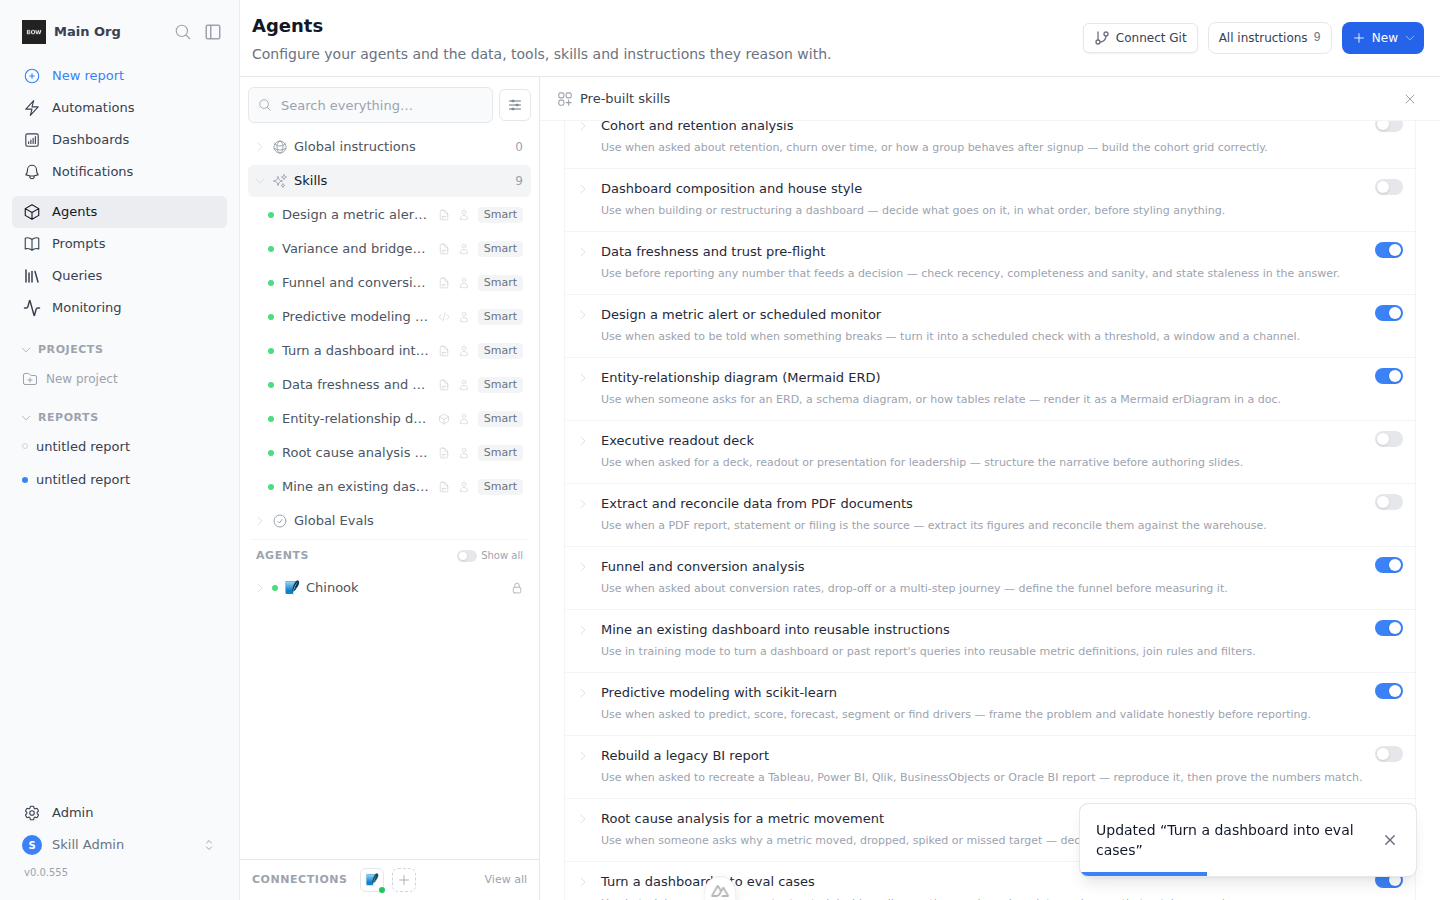
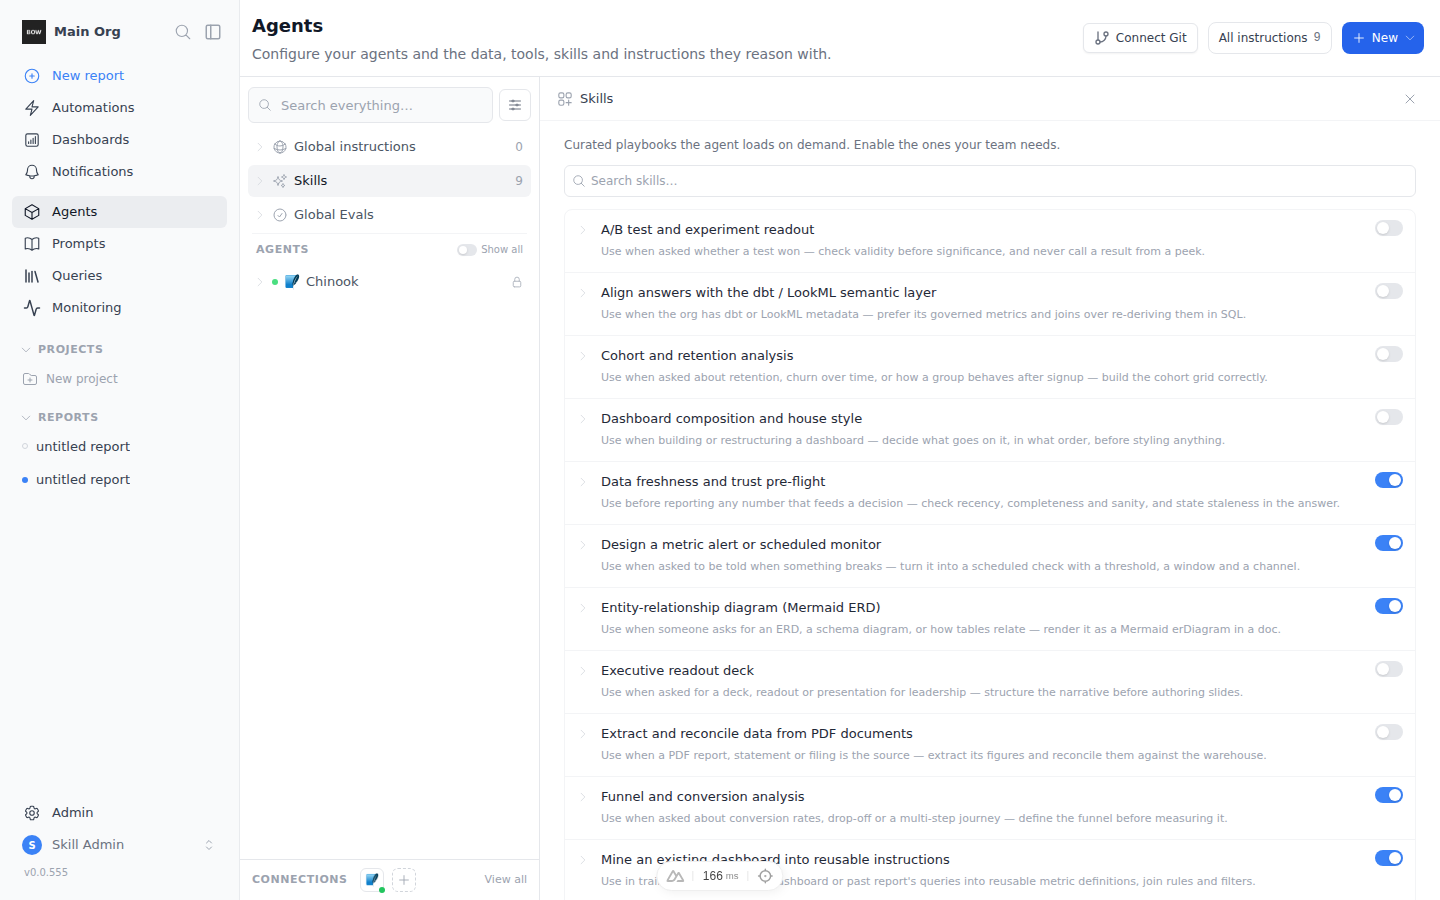
fix(skills): title the panel "Skills", route it at /agents/skills, restore its deep link
The panel was titled "Pre-built skills" and its URL read /agents/skill-catalog,
because the explorer builds the address from panelView.kind. It is the Skills
view — renaming the kind to 'skills' gives both the right heading (reusing the
existing agentsPage.skills string) and /agents/skills.

That URL was also write-only: syncUrl wrote it but restoreFromRoute had no
branch for it, so /agents/skills opened an empty right pane on reload and on
back/forward. It now restores the catalog, the same way /agents/global-evals
does.

Claude-Session: https://claude.ai/code/session_011LnxpYd7B5nojHHLF78AAB

diff --git a/frontend/components/KnowledgeExplorer.vue b/frontend/components/KnowledgeExplorer.vue
@@ -143,7 +143,7 @@
           </TreeGroup>
           <!-- Clicking the row opens the pre-built catalog (mirrors Tables /
                Tools); the chevron alone expands the org's enabled skills. -->
-          <TreeGroup :label="$t('agentsPage.skills')" icon="i-heroicons-sparkles" :count="skillCount" :active="panelView?.kind === 'skill-catalog'" data-testid="skills-group" :open="isOpen('skills')" @toggle="onSkillsRowClick">
+          <TreeGroup :label="$t('agentsPage.skills')" icon="i-heroicons-sparkles" :count="skillCount" :active="panelView?.kind === 'skills'" data-testid="skills-group" :open="isOpen('skills')" @toggle="onSkillsRowClick">
             <div v-if="groupLoading('skills')" class="flex items-center gap-2 h-8 text-[13px] text-gray-400 dark:text-gray-500" style="padding-inline-start:32px"><Spinner class="w-3.5 h-3.5" /><span>Loading…</span></div>
             <template v-else>
               <EmptyHint v-if="skillCount === 0" :text="$t('agentsPage.noSkills')" />
@@ -565,9 +565,9 @@
         <template v-else-if="panelView">
           <div class="h-11 shrink-0 px-4 flex items-center justify-between border-b border-gray-100 dark:border-gray-800">
             <div class="flex items-center gap-1.5 min-w-0">
-              <template v-if="panelView.kind === 'skill-catalog'">
+              <template v-if="panelView.kind === 'skills'">
                 <UIcon name="i-heroicons-squares-plus" class="w-[18px] h-[18px] shrink-0 text-gray-400 dark:text-gray-500" />
-                <span class="text-[13px] font-medium text-gray-700 dark:text-gray-300 truncate">{{ $t('skillCatalog.title') }}</span>
+                <span class="text-[13px] font-medium text-gray-700 dark:text-gray-300 truncate">{{ $t('agentsPage.skills') }}</span>
               </template>
               <template v-else-if="panelView.kind === 'global-evals'">
                 <UIcon name="i-heroicons-check-circle" class="w-[18px] h-[18px] shrink-0 text-gray-400 dark:text-gray-500" />
@@ -587,7 +587,7 @@
             <button class="h-7 w-7 rounded-md flex items-center justify-center text-gray-400 dark:text-gray-500 hover:bg-gray-100 dark:hover:bg-gray-800/70 shrink-0" @click="closePanel"><UIcon name="i-heroicons-x-mark" class="w-4 h-4" /></button>
           </div>
           <div class="flex-1 overflow-auto">
-            <InstructionsSkillCatalogPanel v-if="panelView.kind === 'skill-catalog'" key="skill-catalog" @changed="onSkillCatalogChanged" />
+            <InstructionsSkillCatalogPanel v-if="panelView.kind === 'skills'" key="skills" @changed="onSkillCatalogChanged" />
             <AgentEvalsPanel v-else-if="panelView.kind === 'evals'" :key="'evals-' + panelView.agentId" :agent-id="panelView.agentId" :initial-run-id="pendingRunId" />
             <AgentEvalsPanel v-else-if="panelView.kind === 'global-evals'" key="global-evals" global :initial-run-id="pendingRunId" />
             <AgentSettingsPanel v-else-if="panelView.kind === 'settings'" :key="'settings-' + panelView.agentId" :agent-id="panelView.agentId" @updated="onAgentSettingsUpdated" @deleted="onAgentDeleted" />
@@ -1950,9 +1950,9 @@ const setPrimaryForSingleAgent = async (makePrimary: boolean) => {
 }
 
 // right-pane panel for Tables/Tools/Evals/Settings
-const panelView = ref<null | { kind: 'tables' | 'tools' | 'files' | 'evals' | 'settings' | 'global-evals' | 'skill-catalog'; agentId: string }>(null)
+const panelView = ref<null | { kind: 'tables' | 'tools' | 'files' | 'evals' | 'settings' | 'global-evals' | 'skills'; agentId: string }>(null)
 const closePanel = () => { panelView.value = null }
-const panelKindLabel = computed(() => ({ tables: t('agentsPage.tables'), tools: t('agentsPage.tools'), files: t('agentsPage.files'), evals: t('agentsPage.evals'), settings: t('agentsPage.settings'), 'global-evals': t('agentsPage.globalEvals'), 'skill-catalog': t('skillCatalog.title') } as Record<string, string>)[panelView.value?.kind || ''] || '')
+const panelKindLabel = computed(() => ({ tables: t('agentsPage.tables'), tools: t('agentsPage.tools'), files: t('agentsPage.files'), evals: t('agentsPage.evals'), settings: t('agentsPage.settings'), 'global-evals': t('agentsPage.globalEvals'), skills: t('agentsPage.skills') } as Record<string, string>)[panelView.value?.kind || ''] || '')
 const panelAgent = computed(() => panelView.value ? agents.value.find(a => a.id === panelView.value!.agentId) : null)
 const panelConnections = computed(() => {
   const a = panelAgent.value as any
@@ -1971,12 +1971,12 @@ const openGlobalEvals = () => {
 // Pre-built skill catalog — org-wide, not bound to any agent.
 const openSkillCatalog = () => {
   clearRightPane()
-  panelView.value = { kind: 'skill-catalog', agentId: '' }
+  panelView.value = { kind: 'skills', agentId: '' }
 }
 // Same shape as onPanelRowClick: the row opens the catalog and expands the
 // group; clicking it again while the catalog is open just collapses the group.
 const onSkillsRowClick = () => {
-  if (panelView.value?.kind === 'skill-catalog') { expand('skills'); return }
+  if (panelView.value?.kind === 'skills') { expand('skills'); return }
   if (!isOpen('skills')) expand('skills')
   openSkillCatalog()
 }
@@ -4103,6 +4103,11 @@ const restoreFromRoute = () => {
   // /agents/global-evals — org-wide evals view, not bound to an agent
   if (seg[0] === 'global-evals') {
     if (panelView.value?.kind !== 'global-evals') openGlobalEvals()
+    return
+  }
+  // /agents/skills — the pre-built skill catalog, also not bound to an agent
+  if (seg[0] === 'skills') {
+    if (panelView.value?.kind !== 'skills') openSkillCatalog()
     return
   }
   const agentId = seg[0]
